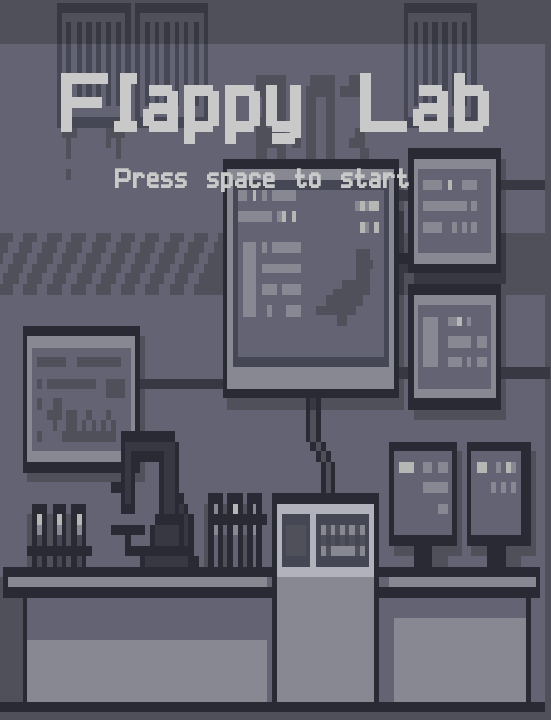
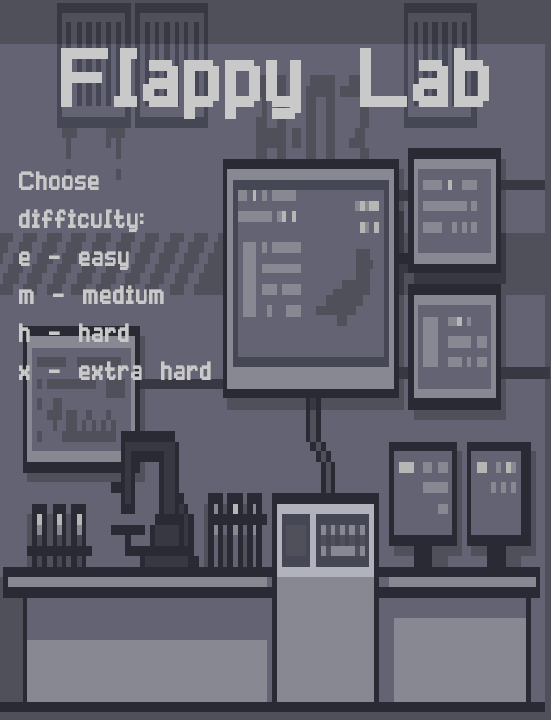
added all endings and reviewing from coins

diff --git a/main.py b/main.py
@@ -21,11 +21,17 @@ bird_images = [pygame.image.load("assets1/bird_down.png"),
                pygame.image.load("assets1/bird_up.png")]
 top_obstacle_image = pygame.image.load("assets1/pipe_top.png")
 bottom_obstacle_image = pygame.image.load("assets1/pipe_bottom.png")
-game_over_image = pygame.image.load("assets1/game_over.png")
+game_over_image = pygame.image.load("assets1/bad_end.png")
+good_over_image = pygame.image.load("assets1/good_over.png")
 start_image = pygame.image.load("assets1/start.png")
 agent_image = pygame.image.load("assets1/agent.png")
+coin_image = pygame.image.load("assets1/coin.png")
 
+MAZE_START_SIZE = 10
+MAZE_SIZE_INCREMENT = 2
+MAZE_TIME_LIMIT = 20
 freq_diff_x, freq_diff_y = 2, 6
+coins_needed=3
 
 scroll_speed = 2
 bird_start_pos = (100, 250)
@@ -34,11 +40,6 @@ font = pygame.font.SysFont('Segoe', 25)
 game_stopped = True
 timer = 0
 appearing_frequency = random.randint(freq_diff_x, freq_diff_y)
-
-MAZE_START_SIZE = 10
-MAZE_SIZE_INCREMENT = 2
-MAZE_TIME_LIMIT = 20
-
 
 class Bird(pygame.sprite.Sprite):
     def __init__(self):
@@ -133,6 +134,7 @@ def main():
     global score
     global timer
     global appearing_frequency
+    last_score=-1
 
     bird = pygame.sprite.GroupSingle()
     bird.add(Bird())
@@ -155,6 +157,7 @@ def main():
     maze_solved = 0
 
     after_maze = False
+    after_good_end=False
 
     run = True
     while run:
@@ -177,10 +180,9 @@ def main():
         bird.draw(screen)
         agent.draw(screen)
 
-        score_text = font.render('Score: ' + str(score), True, pygame.Color(255, 255, 255))
-        screen.blit(score_text, (20, 20))
-        maze_solved_text = font.render('Maze solved: ' + str(maze_solved), True, pygame.Color(255, 255, 255))
-        screen.blit(maze_solved_text, (20, 50))
+        screen.blit(coin_image,(0,5))
+        maze_solved_text = font.render('x' + str(maze_solved), True, pygame.Color(255, 255, 255))
+        screen.blit(maze_solved_text, (35, 13))
 
         if after_maze:
             pygame.display.update()
@@ -199,14 +201,28 @@ def main():
 
         collision_obstacles = pygame.sprite.spritecollide(bird.sprites()[0], obstacles, False)
         collision_ground = pygame.sprite.spritecollide(bird.sprites()[0], ground, False)
-        if collision_obstacles or collision_ground:
+        if (collision_obstacles or collision_ground) and score!=last_score and not after_good_end:
+            if maze_solved>0:
+                maze_solved-=1
+                last_score=score 
+                after_maze=True
+                
+            else:
+                bird.sprite.alive = False
+                if collision_ground:
+                    screen.blit(game_over_image, (0,0))
+                    if user_input[pygame.K_r]:
+                        score = 0
+                        break
+        
+        if maze_solved==coins_needed:
             bird.sprite.alive = False
-            if collision_ground:
-                screen.blit(game_over_image, (screen_width // 2 - game_over_image.get_width() // 2,
-                                              screen_height // 2 - game_over_image.get_height() // 2))
-                if user_input[pygame.K_r]:
-                    score = 0
-                    break
+            screen.blit(good_over_image, (0,0))
+            after_good_end=True
+            if user_input[pygame.K_r]:
+                score = 0
+                after_good_end=False
+                break
 
         if bird.sprite.alive and obstacle_timer <= 0:
             timer += 1
@@ -222,7 +238,7 @@ def main():
                 appearing_frequency = random.randint(freq_diff_x, freq_diff_y)
                 timer = 0
 
-                x_agent, y_agent = 790, 380
+                x_agent, y_agent = 790, 420
                 agent.add(Agent(x_agent, y_agent))
 
             else:
@@ -233,7 +249,6 @@ def main():
         collision_agent = pygame.sprite.spritecollide(bird.sprites()[0], agent, False)
 
         if collision_agent:
-            print('Agent collision')
             maze = mz.MazeInator(screen, MAZE_START_SIZE + MAZE_SIZE_INCREMENT * maze_launched, MAZE_TIME_LIMIT)
             maze_launched += 1
             maze_status = maze.update()
@@ -244,7 +259,6 @@ def main():
             if maze_status == 1:
                 maze_solved += 1
                 bird.sprite.alive = True
-                score += 1
             time.sleep(1)
             after_maze = True
             agent.sprites()[0].kill()
@@ -255,6 +269,11 @@ def main():
 
 def menu():
     global game_stopped
+    global MAZE_START_SIZE
+    global MAZE_SIZE_INCREMENT
+    global freq_diff_x
+    global freq_diff_y
+    global coins_needed
 
     while game_stopped:
         exit_game()
@@ -263,7 +282,30 @@ def menu():
         screen.blit(start_image, (0, 0))
 
         user_input = pygame.key.get_pressed()
-        if user_input[pygame.K_SPACE]:
+        
+        if user_input[pygame.K_e]:
+            MAZE_START_SIZE=3
+            MAZE_SIZE_INCREMENT=1
+            freq_diff_x, freq_diff_y=2,3
+            coins_needed=1
+            main()
+        if user_input[pygame.K_m]:
+            MAZE_START_SIZE=5
+            MAZE_SIZE_INCREMENT=2
+            freq_diff_x, freq_diff_y=3,5
+            coins_needed=3
+            main()
+        if user_input[pygame.K_h]:
+            MAZE_START_SIZE=10
+            MAZE_SIZE_INCREMENT=2
+            freq_diff_x, freq_diff_y=4,8
+            coins_needed=5
+            main()
+        if user_input[pygame.K_x]:
+            MAZE_START_SIZE=15
+            MAZE_SIZE_INCREMENT=3
+            freq_diff_x, freq_diff_y=10,15
+            coins_needed=5
             main()
 
         pygame.display.update()

diff --git a/maze.py b/maze.py
@@ -7,19 +7,19 @@ import draw_text
 
 DEFAULT_DIFFICULTY = 10
 MAZE_GENERATOR_PATH = "maze_gen.exe"
-MAZE_WALL_COLOUR = (0, 0, 0)
-MAZE_BACKGROUND_COLOUR = (255, 255, 255)
+MAZE_WALL_COLOUR = (255, 255, 255)
+MAZE_BACKGROUND_COLOUR = (20, 57, 47)
 WALL_WIDTH = 2
 
 MIN_OFFSET = 10
 
 MAZE_RUNNER_SIZE = 10
-MAZE_RUNNER_COLOUR = (255, 0, 0)
+MAZE_RUNNER_COLOUR = (85, 100, 110)
 MAZE_RUNNER_SPEED = 5
 
-GOAL_COLOUR = (0, 255, 0)
+GOAL_COLOUR = (245, 210, 125)
 
-FONT = "comicsansms"
+FONT = "Segoe"
 
 UP_CONTROLS = [pygame.K_UP, pygame.K_w]
 LEFT_CONTROLS = [pygame.K_LEFT, pygame.K_a]
@@ -297,10 +297,10 @@ class MazeInator:
             return 0
         else:
             if self.won:
-                self.draw_message("You won!", (0, 128, 0))
+                self.draw_message("Good job.", (255, 255, 255))
                 return 1
             else:
-                self.draw_message("Time's up!", (255, 0, 0))
+                self.draw_message("...", (255, 255, 255))
                 return -1
 
 
